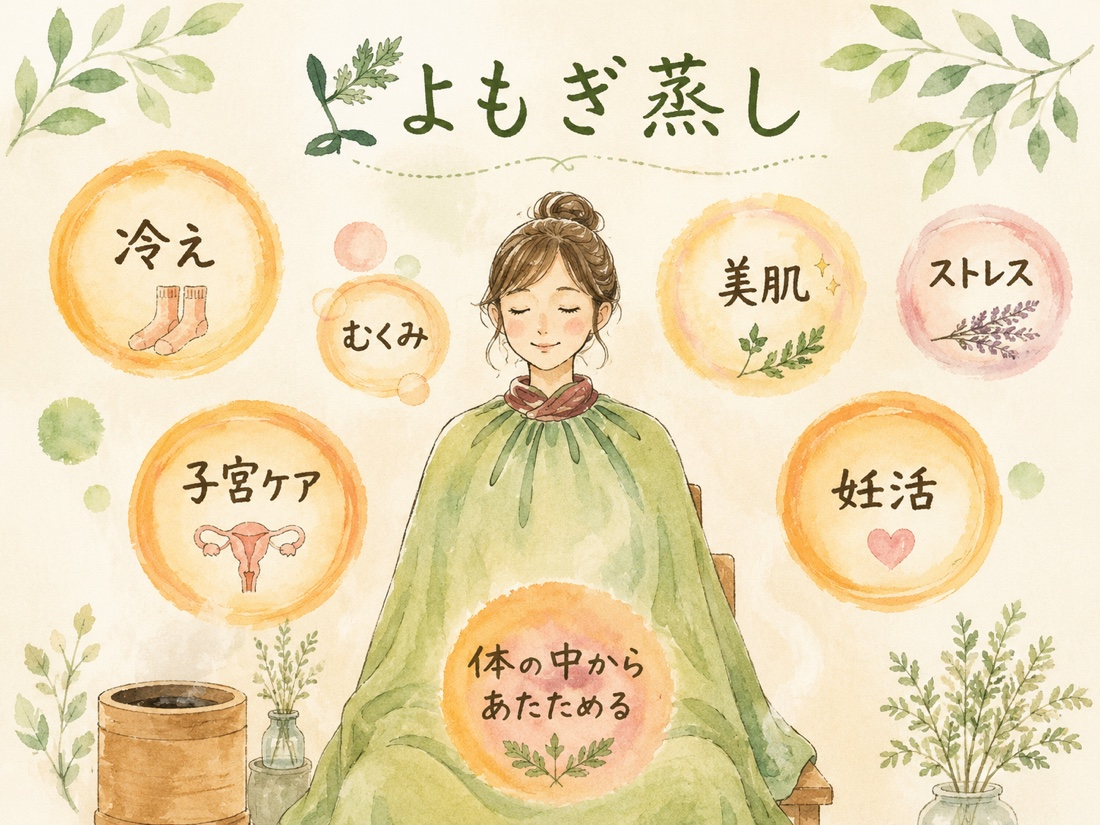
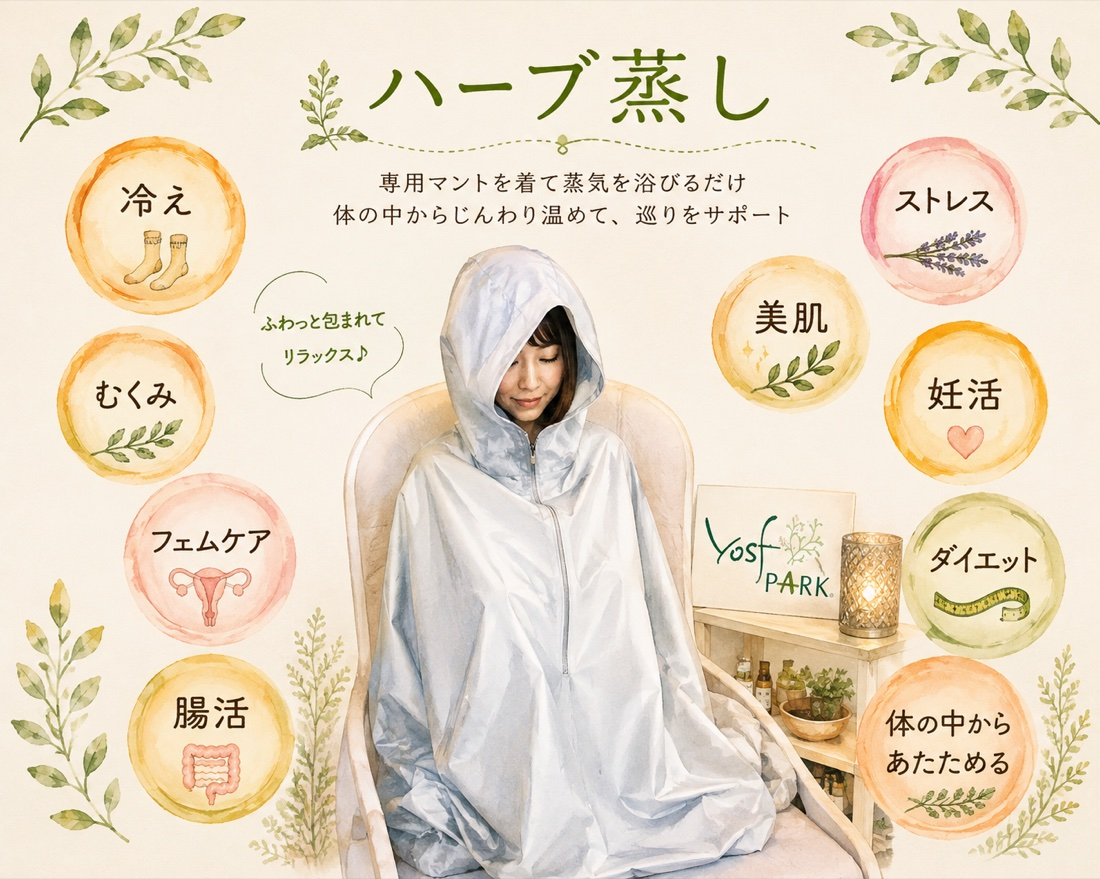
「外見と内面は、ひとつの円を描く」のイラストを実写画像に差し替え
YOSA PARKのマントを着用した実写と効果アイコン（冷え・むくみ・
フェムケア・腸活・ストレス・美肌・妊活・ダイエット・体の中からあたためる）
の画像に変更。alt属性も内容に合わせて更新

diff --git a/components/MobileLanding.tsx b/components/MobileLanding.tsx
@@ -114,7 +114,7 @@ export default function MobileLanding() {
         </div>
         <div className="spacer-sm" />
         <div className="feature">
-          <div className="feature__img feature__img--illustration"><img src="/kodawari/yomogi-mushi.jpg" alt="ハーブ蒸し 冷え・むくみ・美肌・ストレス・子宮ケア・妊活。体の中からあたためる。" /></div>
+          <div className="feature__img feature__img--illustration"><img src="/kodawari/yomogi-mushi.jpg" alt="ハーブ蒸し 専用マントを着て蒸気を浴びるだけ、体の中からじんわり温めて巡りをサポート。冷え・むくみ・フェムケア・腸活・ストレス・美肌・妊活・ダイエット。体の中からあたためる。" /></div>
           <div>
             <h3 className="feature__title">外見と内面は、ひとつの円を描く</h3>
             <p className="feature__body">

diff --git a/app/(site)/first-time/page.tsx b/app/(site)/first-time/page.tsx
@@ -130,7 +130,7 @@ export default function FirstTime() {
       </div>
       <div className="spacer-sm" />
       <div className="feature">
-        <div className="feature__img feature__img--illustration"><img src="/kodawari/yomogi-mushi.jpg" alt="ハーブ蒸し 冷え・むくみ・美肌・ストレス・子宮ケア・妊活。体の中からあたためる。" /></div>
+        <div className="feature__img feature__img--illustration"><img src="/kodawari/yomogi-mushi.jpg" alt="ハーブ蒸し 専用マントを着て蒸気を浴びるだけ、体の中からじんわり温めて巡りをサポート。冷え・むくみ・フェムケア・腸活・ストレス・美肌・妊活・ダイエット。体の中からあたためる。" /></div>
         <div>
           <h3 className="feature__title">外見と内面は、ひとつの円を描く</h3>
           <p className="feature__body">
